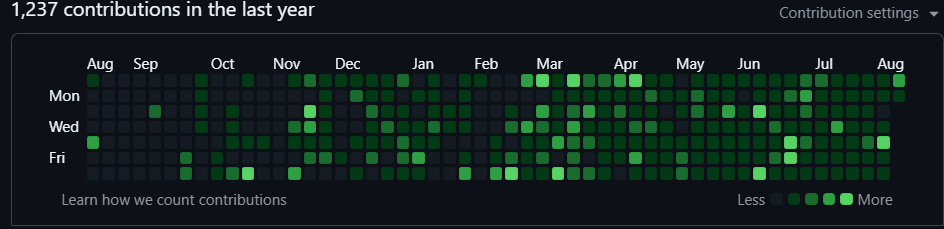
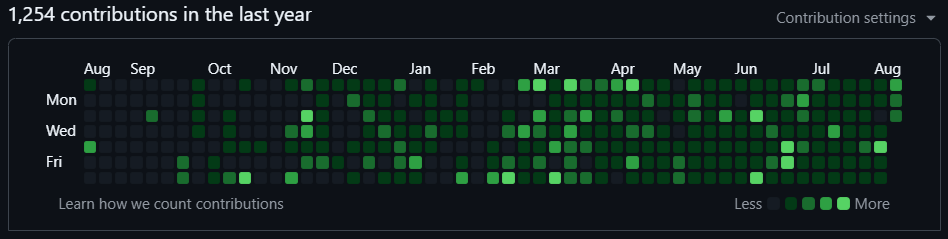
Update total commit count and contribution image in README.md

diff --git a/README.md b/README.md
@@ -13,7 +13,7 @@ Name - Om Goyal
 
 Hobbies - Just code and code (Yes I am serious)
 
-I have a total of above **1190 commits**. *(Including my Public and Private repositories)*
+I have a total of above **1250 commits**. *(Including my Public and Private repositories)*
 
 ![image](images/contributions.png)
 
